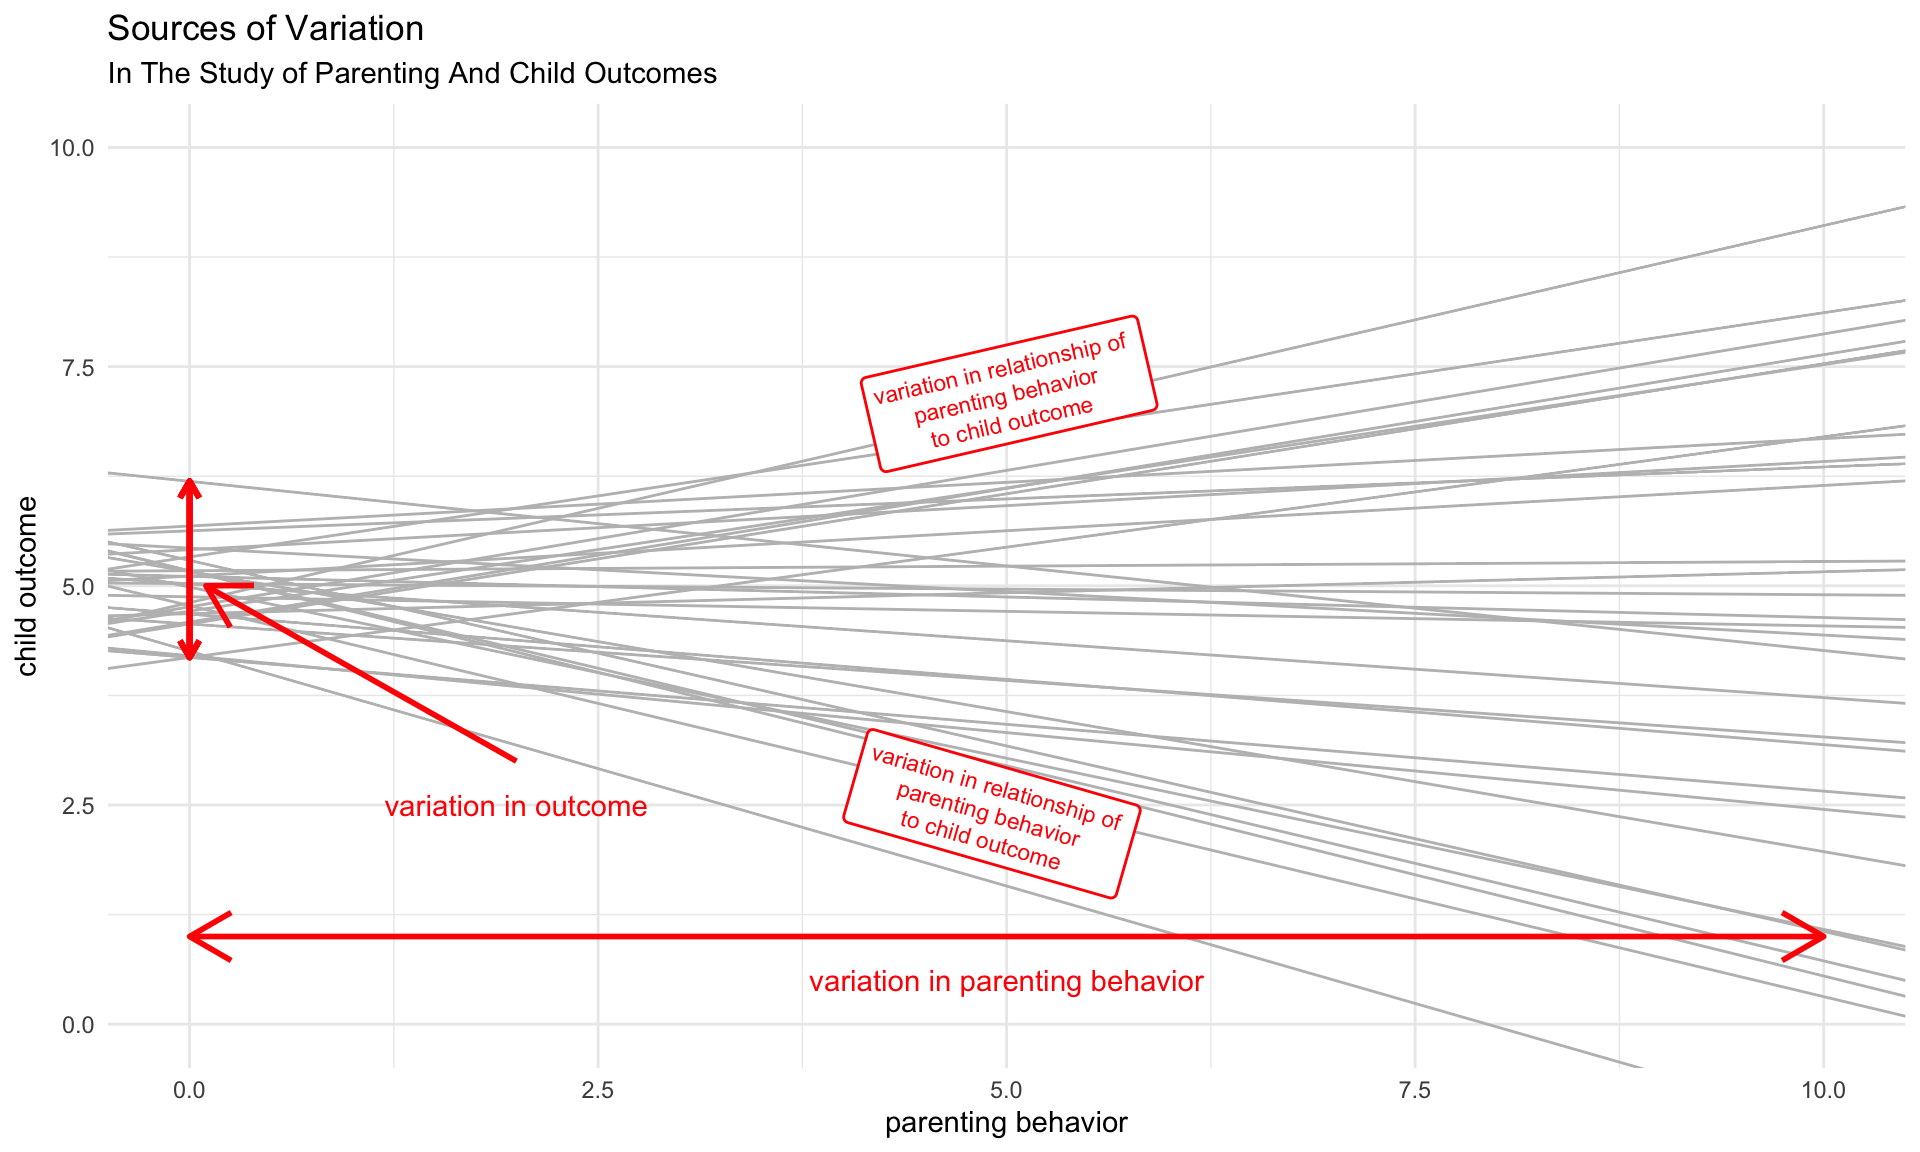
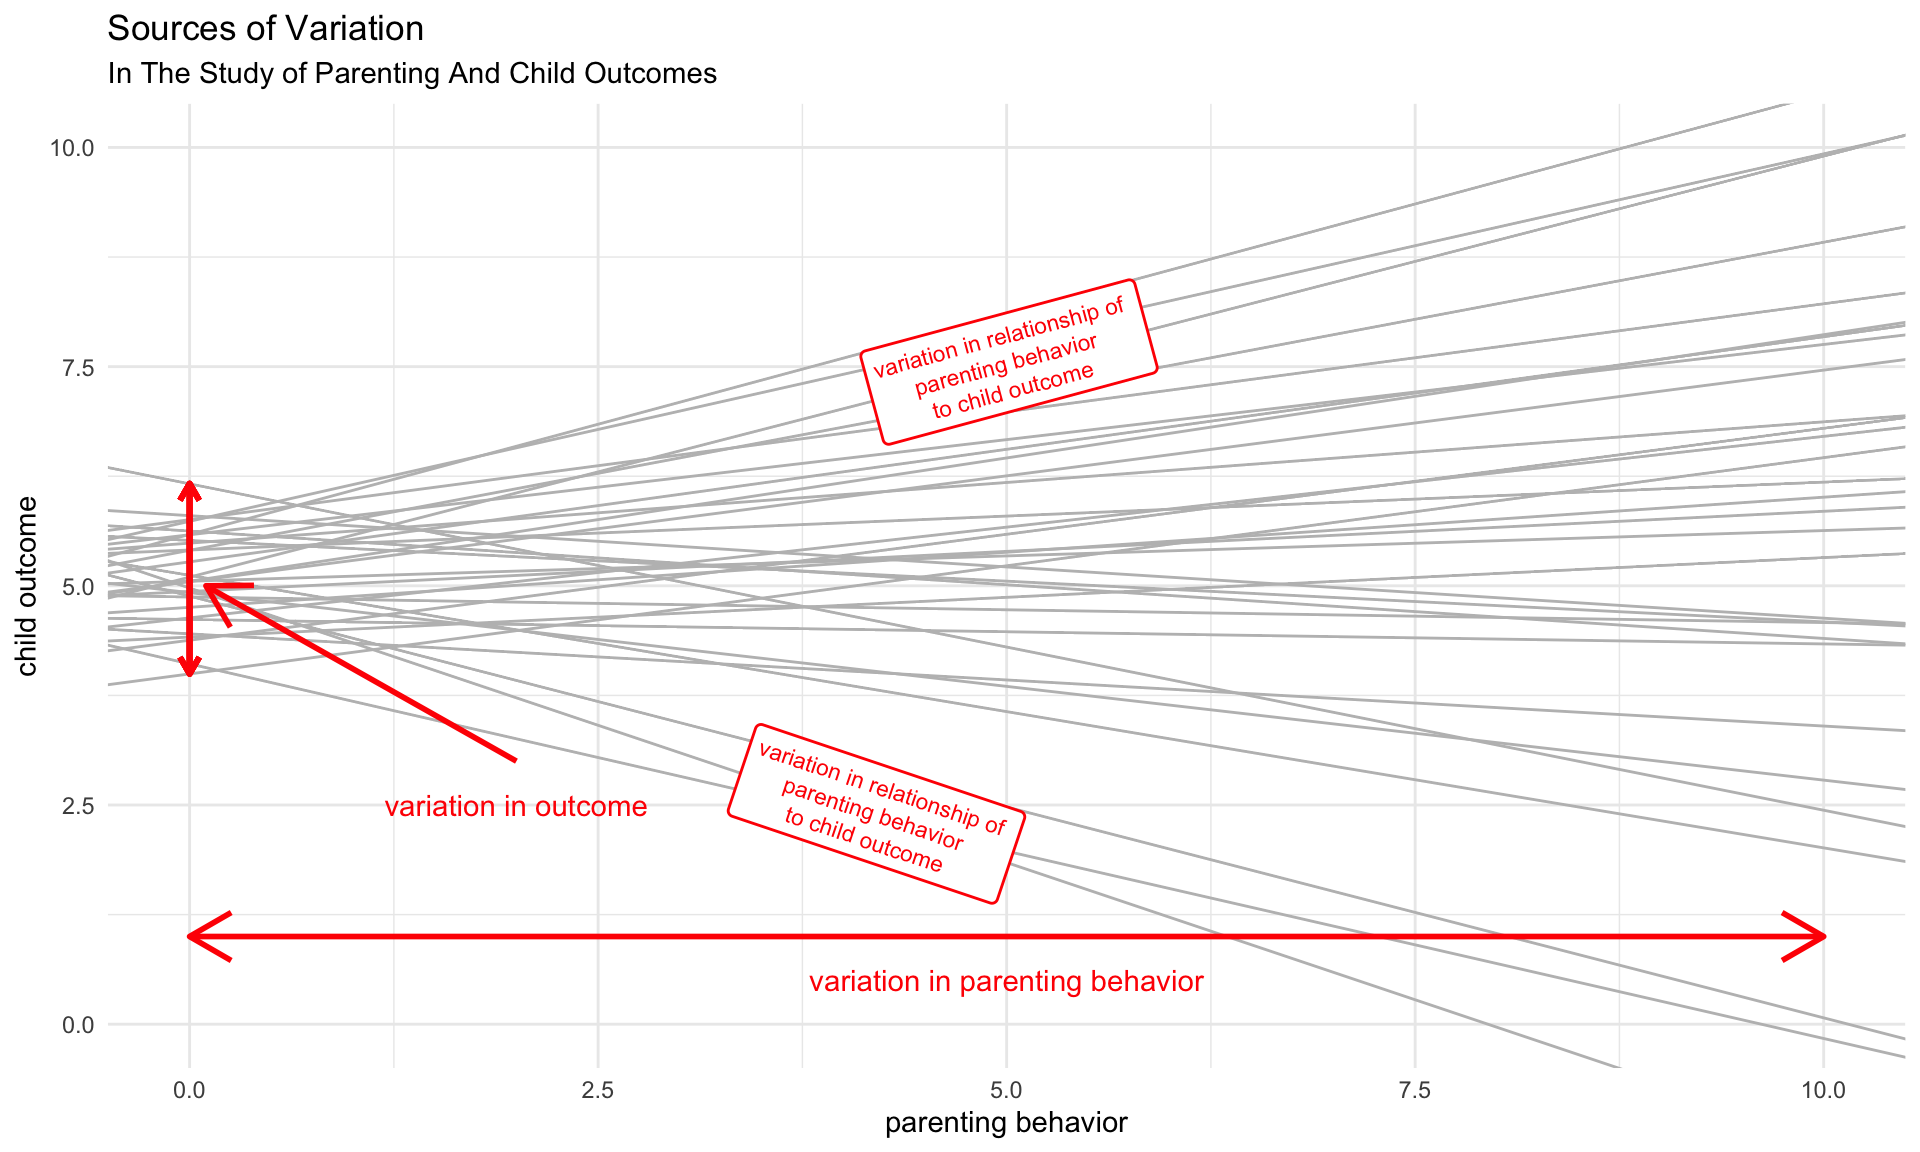
tweaking fonts and colors

diff --git a/positive-and-negative-parenting-revealjs.html b/positive-and-negative-parenting-revealjs.html
@@ -286,8 +286,8 @@ function typeWriter() {
 <p>MICS data collected by UNICEF from Low and Middle Income Countries (LMIC) around the world. <span class="math inline">\(N = 224,632 \text{ families}; N_{countries} = 60\)</span></p>
 <div class="cell">
 <div class="cell-output-display">
-<div class="plotly html-widget html-fill-item" id="htmlwidget-91abb9ec2c8123a31563" style="width:960px;height:480px;"></div>
-<script type="application/json" data-for="htmlwidget-91abb9ec2c8123a31563">{"x":{"visdat":{"d8d29c0afc5":["function () ","plotlyVisDat"]},"cur_data":"d8d29c0afc5","attrs":{"d8d29c0afc5":{"alpha_stroke":1,"sizes":[10,100],"spans":[1,20],"z":1,"text":{},"colors":"dodgerblue","hoverinfo":"text","locations":{},"showscale":false,"marker":{"size":10,"line":{"color":"rgba(0,0,0,1)","width":0.5}},"inherit":true}},"layout":{"margin":{"b":40,"l":60,"t":25,"r":10},"mapType":"geo","geo":{"domain":{"x":[0,1],"y":[0,1]},"showframe":true,"showcoastlines":true,"showcountries":true,"showland":true,"countrycolor":"rgba(190,190,190,1)","showocean":true,"oceancolor":"white","projection":{"type":"robinson"},"landcolor":"rgba(211,211,211,1)","bgcolor":"transparent"},"plot_bgcolor":"transparent","paper_bgcolor":"transparent","scene":{"zaxis":{"title":[]}},"hovermode":"closest","showlegend":false},"source":"A","config":{"modeBarButtonsToAdd":["hoverclosest","hovercompare"],"showSendToCloud":false,"displayModeBar":false},"data":[{"colorbar":{"title":"","ticklen":2},"colorscale":[["0","rgba(30,144,255,1)"],["1","rgba(30,144,255,1)"]],"showscale":false,"z":[1,1,1,1,1,1,1,1,1,1,1,1,1,1,1,1,1,1,1,1,1,1,1,1,1,1,1,1,1,1,1,1,1,1,1,1,1,1,1,1,1,1,1,1,1,1,1,1,1,1,1,1,1,1,1,1,1,1,1,1,1],"text":["Algeria","Argentina","Bangladesh","Barbados","Belarus","Belize","Benin","Bosnia and Herzegovina","Cameroon","Central African Republic","Chad","Democratic Republic of the Congo","Republic of the Congo","Costa Rica","Cote d'Ivoire","Dominican Republic","El Salvador","Eswatini","Ghana","Guinea","Guinea Bissau","Guyana","Iraq","Jamaica","Kazakhstan","Kenya","Kosovo","Kyrgyzstan","Laos","Macedonia","Madagascar","Malawi","Mali","Mauritania","Mexico","Moldova","Mongolia","Montenegro","Nepal","Nigeria","Pakistan","Panama","Paraguay","Sao Tome and Principe","Senegal","Serbia","Sierra Leone","Somalia","St. Lucia","State of Palestine","Suriname","Thailand","The Gambia","Togo","Trinidad and Tobago","Tunisia","Turkmenistan","Ukraine","Uruguay","Vietnam","Zimbabwe"],"hoverinfo":["text","text","text","text","text","text","text","text","text","text","text","text","text","text","text","text","text","text","text","text","text","text","text","text","text","text","text","text","text","text","text","text","text","text","text","text","text","text","text","text","text","text","text","text","text","text","text","text","text","text","text","text","text","text","text","text","text","text","text","text","text"],"locations":["DZA","ARG","BGD","BRB","BLR","BLZ","BEN","BIH","CMR","CAF","TCD","COD","COG","CRI","CIV","DOM","SLV","SWZ","GHA","GIN","GNB","GUY","IRQ","JAM","KAZ","KEN",null,"KGZ","LAO","MKD","MDG","MWI","MLI","MRT","MEX","MDA","MNG","MNE","NPL","NGA","PAK","PAN","PRY","STP","SEN","SRB","SLE","SOM","LCA","PSE","SUR","THA","GMB","TGO","TTO","TUN","TKM","UKR","URY","VNM","ZWE"],"marker":{"size":10,"line":{"color":"rgba(0,0,0,1)","width":0.5}},"type":"choropleth","geo":"geo","frame":null}],"highlight":{"on":"plotly_click","persistent":false,"dynamic":false,"selectize":false,"opacityDim":0.20000000000000001,"selected":{"opacity":1},"debounce":0},"shinyEvents":["plotly_hover","plotly_click","plotly_selected","plotly_relayout","plotly_brushed","plotly_brushing","plotly_clickannotation","plotly_doubleclick","plotly_deselect","plotly_afterplot","plotly_sunburstclick"],"base_url":"https://plot.ly"},"evals":[],"jsHooks":[]}</script>
+<div class="plotly html-widget html-fill-item" id="htmlwidget-389e09b70a688801eacf" style="width:960px;height:480px;"></div>
+<script type="application/json" data-for="htmlwidget-389e09b70a688801eacf">{"x":{"visdat":{"108464233a2b":["function () ","plotlyVisDat"]},"cur_data":"108464233a2b","attrs":{"108464233a2b":{"alpha_stroke":1,"sizes":[10,100],"spans":[1,20],"z":1,"text":{},"colors":"dodgerblue","hoverinfo":"text","locations":{},"showscale":false,"marker":{"size":10,"line":{"color":"rgba(0,0,0,1)","width":0.5}},"inherit":true}},"layout":{"margin":{"b":40,"l":60,"t":25,"r":10},"mapType":"geo","geo":{"domain":{"x":[0,1],"y":[0,1]},"showframe":true,"showcoastlines":true,"showcountries":true,"showland":true,"countrycolor":"rgba(190,190,190,1)","showocean":true,"oceancolor":"white","projection":{"type":"robinson"},"landcolor":"rgba(211,211,211,1)","bgcolor":"transparent"},"plot_bgcolor":"transparent","paper_bgcolor":"transparent","scene":{"zaxis":{"title":[]}},"hovermode":"closest","showlegend":false},"source":"A","config":{"modeBarButtonsToAdd":["hoverclosest","hovercompare"],"showSendToCloud":false,"displayModeBar":false},"data":[{"colorbar":{"title":"","ticklen":2},"colorscale":[["0","rgba(30,144,255,1)"],["1","rgba(30,144,255,1)"]],"showscale":false,"z":[1,1,1,1,1,1,1,1,1,1,1,1,1,1,1,1,1,1,1,1,1,1,1,1,1,1,1,1,1,1,1,1,1,1,1,1,1,1,1,1,1,1,1,1,1,1,1,1,1,1,1,1,1,1,1,1,1,1,1,1,1],"text":["Algeria","Argentina","Bangladesh","Barbados","Belarus","Belize","Benin","Bosnia and Herzegovina","Cameroon","Central African Republic","Chad","Democratic Republic of the Congo","Republic of the Congo","Costa Rica","Cote d'Ivoire","Dominican Republic","El Salvador","Eswatini","Ghana","Guinea","Guinea Bissau","Guyana","Iraq","Jamaica","Kazakhstan","Kenya","Kosovo","Kyrgyzstan","Laos","Macedonia","Madagascar","Malawi","Mali","Mauritania","Mexico","Moldova","Mongolia","Montenegro","Nepal","Nigeria","Pakistan","Panama","Paraguay","Sao Tome and Principe","Senegal","Serbia","Sierra Leone","Somalia","St. Lucia","State of Palestine","Suriname","Thailand","The Gambia","Togo","Trinidad and Tobago","Tunisia","Turkmenistan","Ukraine","Uruguay","Vietnam","Zimbabwe"],"hoverinfo":["text","text","text","text","text","text","text","text","text","text","text","text","text","text","text","text","text","text","text","text","text","text","text","text","text","text","text","text","text","text","text","text","text","text","text","text","text","text","text","text","text","text","text","text","text","text","text","text","text","text","text","text","text","text","text","text","text","text","text","text","text"],"locations":["DZA","ARG","BGD","BRB","BLR","BLZ","BEN","BIH","CMR","CAF","TCD","COD","COG","CRI","CIV","DOM","SLV","SWZ","GHA","GIN","GNB","GUY","IRQ","JAM","KAZ","KEN",null,"KGZ","LAO","MKD","MDG","MWI","MLI","MRT","MEX","MDA","MNG","MNE","NPL","NGA","PAK","PAN","PRY","STP","SEN","SRB","SLE","SOM","LCA","PSE","SUR","THA","GMB","TGO","TTO","TUN","TKM","UKR","URY","VNM","ZWE"],"marker":{"size":10,"line":{"color":"rgba(0,0,0,1)","width":0.5}},"type":"choropleth","geo":"geo","frame":null}],"highlight":{"on":"plotly_click","persistent":false,"dynamic":false,"selectize":false,"opacityDim":0.20000000000000001,"selected":{"opacity":1},"debounce":0},"shinyEvents":["plotly_hover","plotly_click","plotly_selected","plotly_relayout","plotly_brushed","plotly_brushing","plotly_clickannotation","plotly_doubleclick","plotly_deselect","plotly_afterplot","plotly_sunburstclick"],"base_url":"https://plot.ly"},"evals":[],"jsHooks":[]}</script>
 <p>Countries in UNICEF MICS Data</p>
 </div>
 </div>
@@ -542,6 +542,19 @@ Figure&nbsp;1: Sources of Variation In The Study of Parenting And Child Outcomes
 <li>The <span class="fragment highlight-red">actual values of the <span class="math inline">\(\text{var}(u_{kj})\)</span> or <span class="math inline">\(\text{range}(u_{kj})\)</span> are small</span>.</li>
 </ol>
 </section>
+<section id="to-summarize" class="slide level1">
+<h1>To Summarize …</h1>
+<ul>
+<li>There is an <span class="fragment highlight-red">incredible diversity</span> across countries, especially LMIC’s.</li>
+<li>However, the <span class="fragment highlight-red">associations</span> of different forms of parental discipline are <span class="fragment highlight-red">surprisingly consistent</span>.
+<ul>
+<li>Explaining to children the difference between right and wrong has consistently <span class="fragment custom darkgreen">“good”</span> outcomes in terms of aggression.</li>
+<li>Spanking has consistently <span class="fragment highlight-red">“bad”</span> outcomes in terms of aggression.</li>
+<li>Shouting has consistently <span class="fragment highlight-red">“bad”</span> outcomes in terms of aggression.</li>
+<li>Name calling has consistently <span class="fragment highlight-red">“bad”</span> outcomes in terms of aggression.</li>
+</ul></li>
+</ul>
+</section>
 <section id="the-argument-of-this-presentation-revisited" class="slide level1 smaller">
 <h1>The Argument Of This Presentation Revisited</h1>
 <div class="columns">
@@ -612,7 +625,7 @@ Barr, D. J., Levy, R., Scheepers, C., &amp; Tily, H. J. (2013). Random effects s
 Césaire, A. (1956). Letter to <span>M</span>aurice <span>T</span>horez. <em>Présence Africaine.</em>
 </div>
 <div id="ref-Frank2018" class="csl-entry" role="listitem">
-Frank, M. (2018). <em>Mixed effects models: Is it time to go bayesian by default?</em> <a href="http://babieslearninglanguage.blogspot.com/2018/02/mixed-effects-models-is-it-time-to-go.html">http://babieslearninglanguage.blogspot.com/2018/02/mixed-effects-models-is-it-time-to-go.html</a>
+Frank, M. (2018). <em>Mixed effects models: Is it time to go <span>B</span>ayesian by default?</em> <a href="http://babieslearninglanguage.blogspot.com/2018/02/mixed-effects-models-is-it-time-to-go.html">http://babieslearninglanguage.blogspot.com/2018/02/mixed-effects-models-is-it-time-to-go.html</a>
 </div>
 <div id="ref-Gershoff2016" class="csl-entry" role="listitem">
 Gershoff, E. T., &amp; Grogan-Kaylor, A. (2016). Spanking and child outcomes: Old controversies and new meta-analyses. <em>Journal of Family Psychology</em>, <em>30</em>, 453–469. <a href="https://doi.org/10.1037/fam0000191">https://doi.org/10.1037/fam0000191</a>
